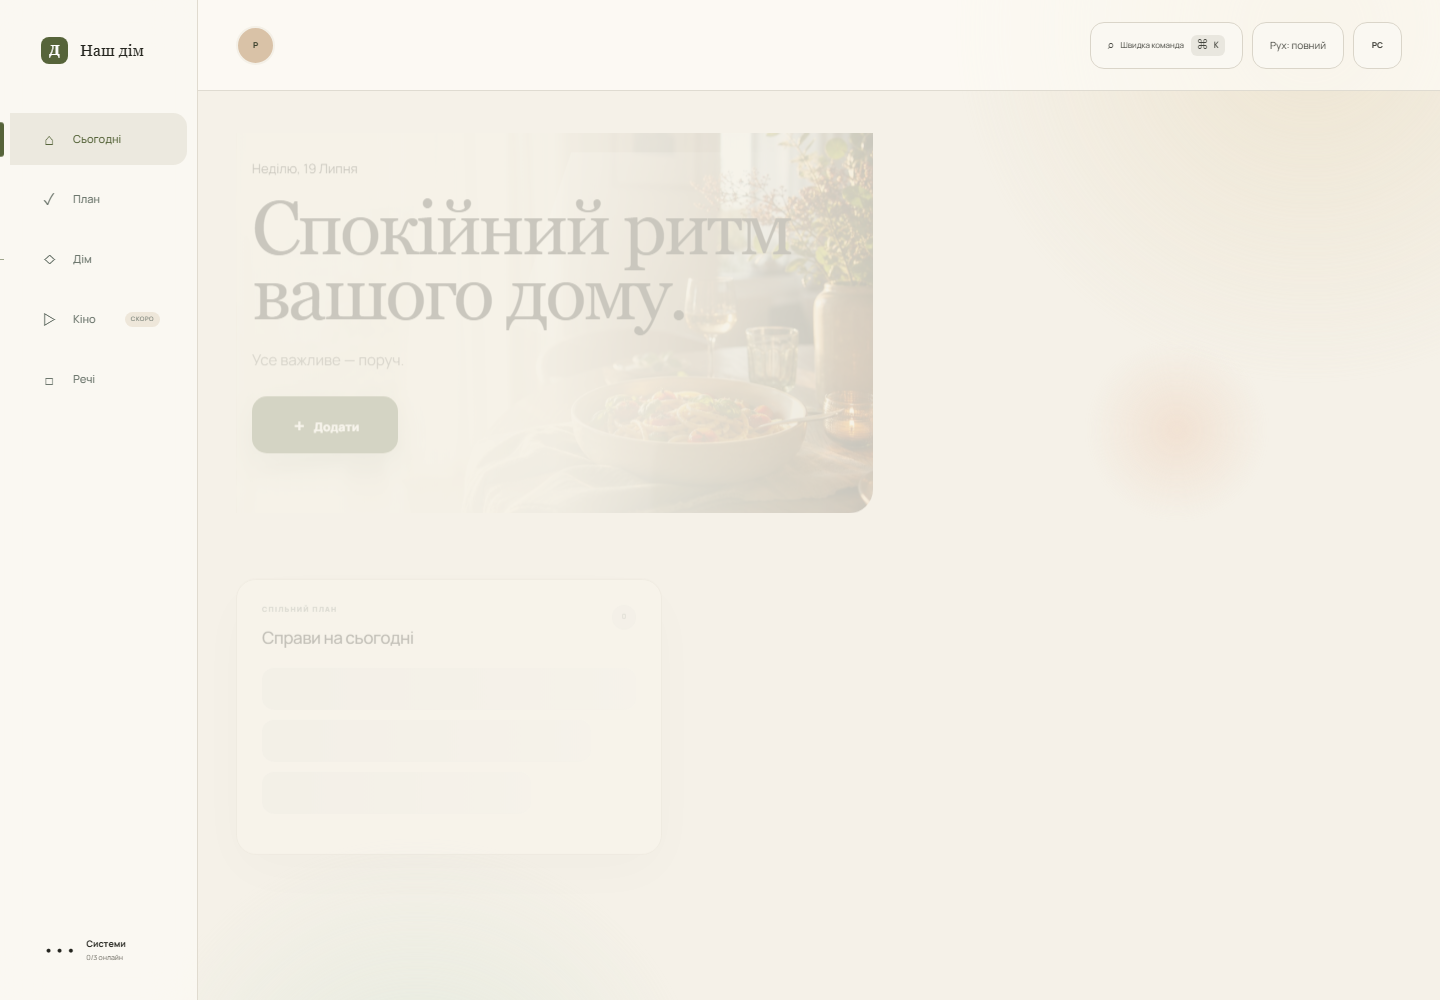
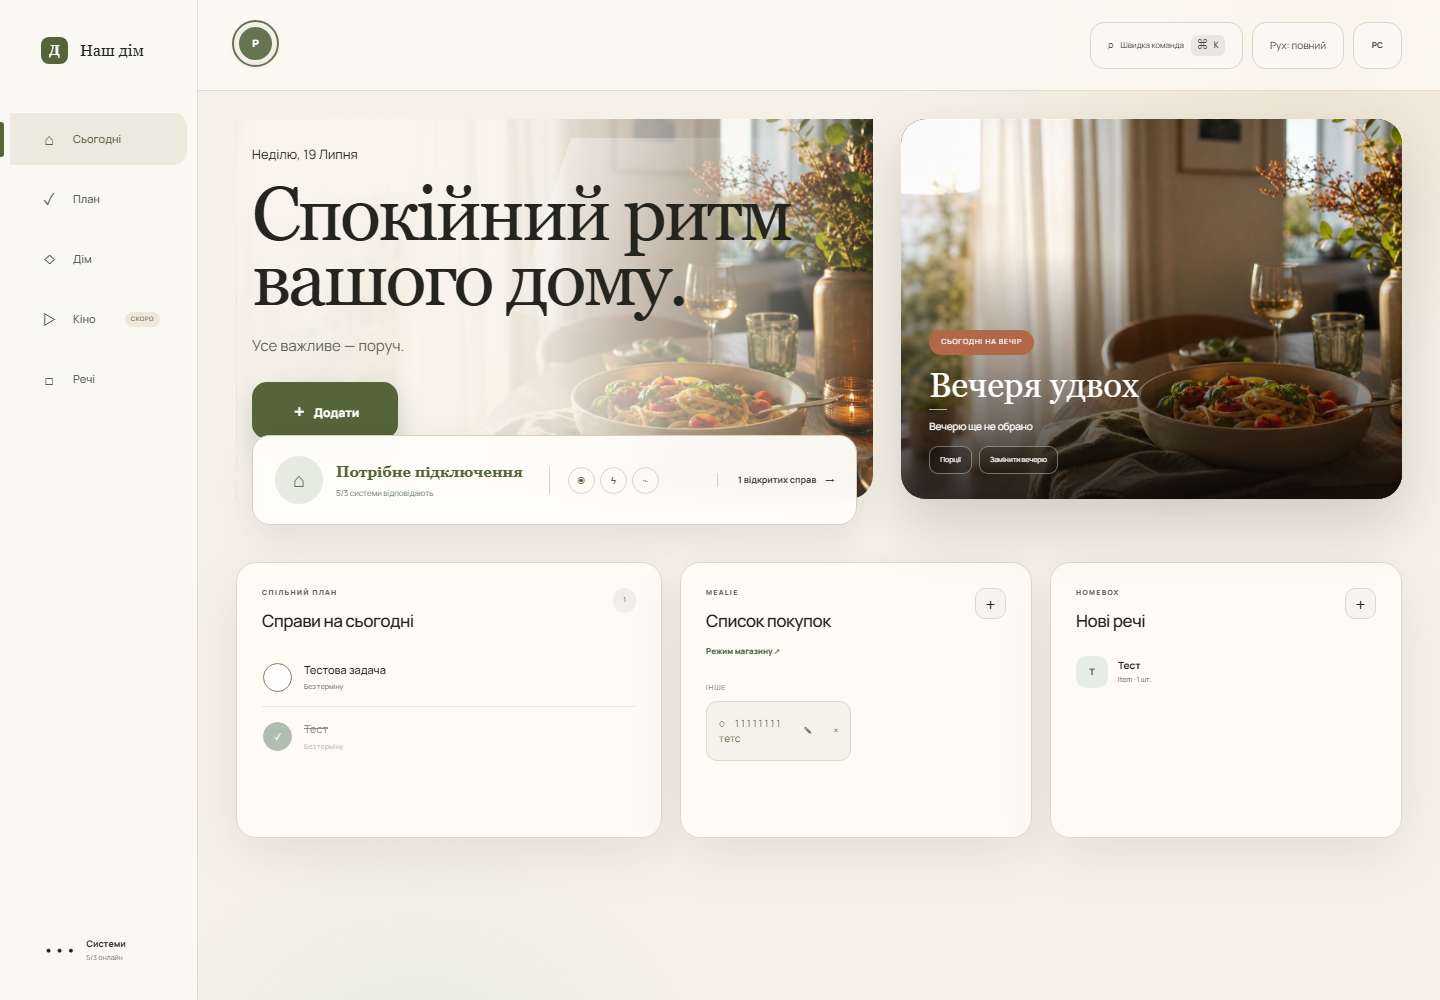
Verify loaded household states

diff --git a/dashboard/app/home-dashboard.tsx b/dashboard/app/home-dashboard.tsx
@@ -524,7 +524,6 @@ export function HomeDashboard() {
             >
               <i>{s.icon}</i>
               <span>{s.label}</span>
-              {s.id === "cinema" && <small>скоро</small>}
             </button>
           ))}
         </nav>
@@ -532,7 +531,7 @@ export function HomeDashboard() {
           <span>•••</span>
           <div>
             <b>Системи</b>
-            <small>{ready}/3 онлайн</small>
+            <small>{ready}/{data.integrations.length} онлайн</small>
           </div>
         </button>
       </aside>
@@ -962,8 +961,12 @@ function Today({
         <button className="pulse" onClick={details} data-reveal data-depth="4">
           <i>⌂</i>
           <span>
-            <b>{ready === 3 ? "Дім у порядку" : "Потрібне підключення"}</b>
-            <small>{ready}/3 системи відповідають</small>
+            <b>
+              {ready === data.integrations.length
+                ? "Дім у порядку"
+                : "Потрібне підключення"}
+            </b>
+            <small>{ready}/{data.integrations.length} системи відповідають</small>
           </span>
           <div className="home-signals" aria-hidden="true">
             <i>◉</i>

diff --git a/dashboard/e2e/dashboard.spec.ts b/dashboard/e2e/dashboard.spec.ts
@@ -14,6 +14,8 @@ test("authenticated household shell is operable and CSP-clean", async ({ page },
   await page.getByRole("button", { name: "Дім" }).click();
   await expect(page.getByRole("heading", { name: /Менше кнопок/ })).toBeVisible();
   await page.getByRole("button", { name: "Сьогодні" }).click();
+  await expect(page.locator(".skeleton")).toHaveCount(0, { timeout: 15_000 });
+  await page.waitForTimeout(800);
   await page.screenshot({ path: path.resolve("../docs/assets", `dashboard-${testInfo.project.name}.png`), fullPage: true });
   expect(errors.filter((message) => /content security policy|refused to/i.test(message))).toEqual([]);
 });
@@ -32,6 +34,7 @@ test("reduced motion and cached snapshot survive an offline reload", async ({ pa
 test("primary household surface has no serious WCAG A/AA violations", async ({ page }) => {
   await page.goto("/");
   await expect(page.getByRole("heading", { name: /Спокійний ритм/ })).toBeVisible();
+  await expect(page.locator(".skeleton")).toHaveCount(0, { timeout: 15_000 });
   const results = await new AxeBuilder({ page })
     .withTags(["wcag2a", "wcag2aa", "wcag21a", "wcag21aa", "wcag22aa"])
     .analyze();

diff --git a/dashboard/app/globals.css b/dashboard/app/globals.css
@@ -6,6 +6,7 @@
 .queue-actions{display:flex;flex-wrap:wrap;justify-content:flex-end;gap:8px}
 /* Keep the quiet palette while meeting WCAG AA for small household labels. */
 :root{--muted:#59635b}.rail nav button,.search,.motion{color:#59635b}.hero p,.space-page header p,.coming>p,.panel-head p,.composer header p,.drawer header p{color:#59635b}.task-list small,.things-list small,.empty,.panel-head>span,.palette footer{color:#59635b}
+.task-list .done{opacity:1}.task-list .done b,.pulse small,.panel h3{color:#59635b}
 
 /* Residential editorial direction — reference-led, original implementation */
 :root{--paper:#f5f1e8;--card:#fffdf8;--ink:#24251f;--muted:#706f66;--green:#56643a;--forest:#46542f;--line:#ddd7ca;--shadow:0 18px 55px rgba(66,55,36,.09)}